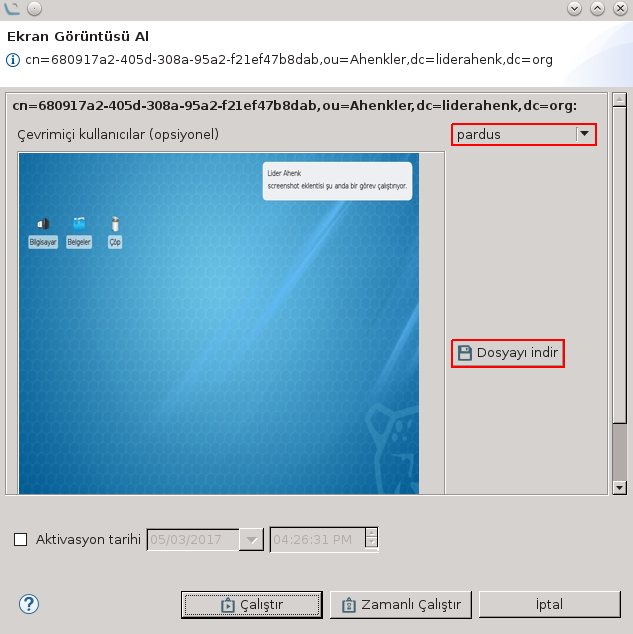
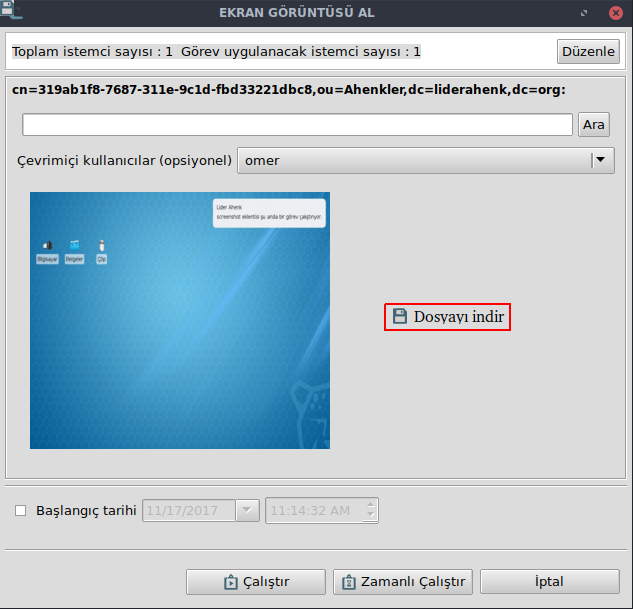
updated md file

diff --git a/1.1.0/eklentiler/screenshot.md b/1.1.0/eklentiler/screenshot.md
@@ -6,13 +6,14 @@ Ekran Görüntüsü, bir görev eklentisidir.
 
 ![Screenshot](images/screenshot.png)
 
-Bir Ahenk makinesinin ekran görüntüsünü almak için ilgili makine üzerinde ekran görüntüsü görevi çalıştırılır. Çevrimiçi kullanıcılar alanında makine üzerindeki bütün çevrimiçi kullanıcılar ve makine seçeneği listelenmektedir. Bu listeden herhangi bir çevrimiçi kullanıcı seçilebileceği gibi hiçbir kullanıcı da seçilmeyebilir.
+Bir Ahenk makinesinin ekran görüntüsünü almak için ilgili makine üzerinde ekran görüntüsü görevi çalıştırılır. Çevrimiçi kullanıcılar alanında makine üzerindeki bütün çevrimiçi kullanıcılar açılır menüde listelenmektedir. **Ara** simgesine tıklanarak çevrimiçi kullanıcılar arasında arama işlemi yapılabilir.
 
-**"Çalştır"** simgesine tıklandığında Ahenk tarafında kullanıcıya ekran görüntü alınması için izin ekranı getirilir.
+**"Çalıştır"** simgesine tıklandığında Ahenk tarafında kullanıcıya ekran görüntü alınması için izin ekranı getirilir.
 
 ![Screenshot Ahenk Izin](images/screenshot-izin.png)
 
 Kullanıcı onay verdiğinde ekran görüntüsü sunucuya alınır.
+*Kullanıcıdan izin alma arzu edildiği taktirde kaldırılabilir. Sistem yöneticisi herhangi bir onay almadan da ekran görüntüsü ala
 
 Ekran görüntüsü alma işlemi gerçekleştirildikten sonra alınan ekran görüntüsü **"Lider-Console"** kullanıcısının karşısına getirilir. **"Dosyayı indir"** seçeneğiyle bu ekran görüntüsü,bilgisayar üzerinde kullanıcının belirlediği herhangi bir lokasyona kaydedilir.
 

diff --git a/1.1.0/eklentiler/manage-root.md b/1.1.0/eklentiler/manage-root.md
@@ -1,0 +1,8 @@
+# Root Parolası Değiştir
+
+Kişisel bilgisayarlardaki ve/veya sunuculardaki root hesabının parola yönetimini sağlamaktadır.
+
+![Im60](images/manage-root.png)
+
+Görev olarak kullanılan bu eklenti anlık olarak uygulanan tüm ahenkler de root kullanıcı hesabının parolasını değiştirmektedir.
+Parola değişiminden muaf tutulacak ahenkler **Düzenle** butonuna tıklanarak seçilebilir. **Çalıştır** butonu ile anlık olarak, **Zamanlı Çalıştır** ile belirlenen süre sonra çalıştırılması sağlanabilir.
